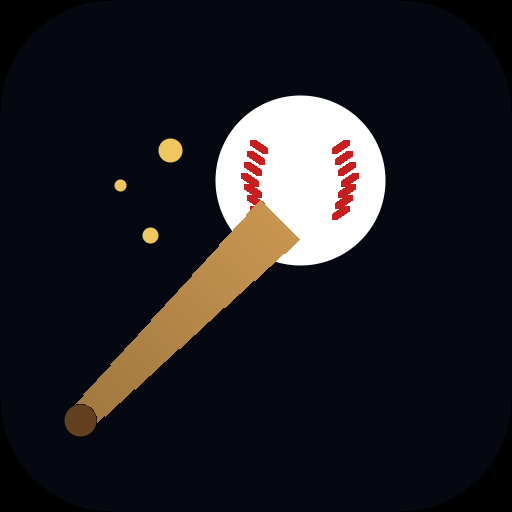
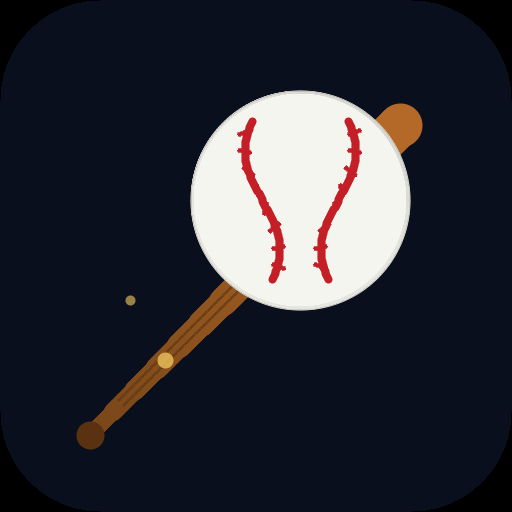
Add files via upload

diff --git a/index.html b/index.html
@@ -51,6 +51,7 @@
 
 * { box-sizing: border-box; margin: 0; padding: 0; }
 html, body { background: var(--bg); color: var(--text); font-family: 'Inter', sans-serif; min-height: 100vh; -webkit-font-smoothing: antialiased; }
+body { padding-bottom: env(safe-area-inset-bottom, 0px); }
 button { font-family: inherit; cursor: pointer; }
 input, select { font-family: inherit; }
 a { color: var(--blue); text-decoration: none; }
@@ -74,9 +75,12 @@ body::before {
   background: rgba(5,8,16,0.85);
   backdrop-filter: blur(12px); -webkit-backdrop-filter: blur(12px);
   border-bottom: 1px solid var(--panel-border);
-  padding: 12px 24px;
+  /* Safe area inset pushes content below iPhone status bar (time/battery).
+     env(safe-area-inset-top) is 0 on non-notch devices and ~44-59px on
+     Face ID iPhones and Dynamic Island models. Falls back to 0 on desktop. */
+  padding: calc(12px + env(safe-area-inset-top, 0px)) 24px 12px 24px;
   display: flex; align-items: center; justify-content: space-between;
-  gap: 16px; min-height: 60px;
+  gap: 16px; min-height: calc(60px + env(safe-area-inset-top, 0px));
   flex-wrap: wrap;
 }
 .brand { display: flex; align-items: center; gap: 12px; cursor: pointer; }
@@ -116,7 +120,7 @@ body::before {
 @keyframes pulse { 0%, 100% { opacity: 1; } 50% { opacity: 0.35; } }
 
 @media (max-width: 720px) {
-  .site-header { padding: 10px 14px; gap: 8px; }
+  .site-header { padding: calc(10px + env(safe-area-inset-top, 0px)) 14px 10px 14px; gap: 8px; }
   .brand-title { font-size: 13px; }
   .sync-status { font-size: 10px; max-width: 130px; }
 }
@@ -961,6 +965,14 @@ async function renderMyLeagues() {
   try {
     const r = await fetch(API_LEAGUE, { headers: authHeaders(), cache: 'no-store' });
     const data = await r.json();
+
+    // If server says we're not authenticated, clear stale session and show sign-in
+    if (r.status === 401 || data.error === 'Not signed in' || data.error === 'Invalid token') {
+      setSession(null);
+      navigate('/');
+      return;
+    }
+
     const list = document.getElementById('my-leagues-list');
     if (!data.leagues || !data.leagues.length) {
       const helperForAdmin = SESSION.isAdmin
@@ -972,6 +984,7 @@ async function renderMyLeagues() {
         <div class="empty-state">
           <div class="empty-state-title">You're not in any leagues yet</div>
           <div class="empty-state-body">Start your own with the button below, or use an invite link from a friend.</div>
+          <button class="btn btn-sm btn-ghost" style="margin-top:12px" onclick="renderMyLeagues()">↺ Refresh</button>
         </div>
         ${helperForAdmin}
       `;
